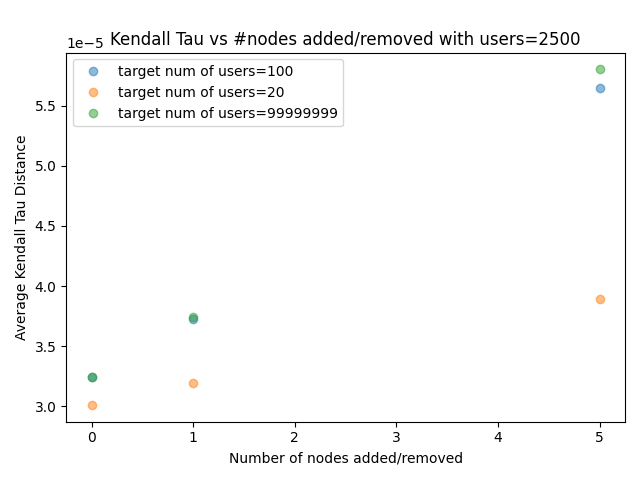
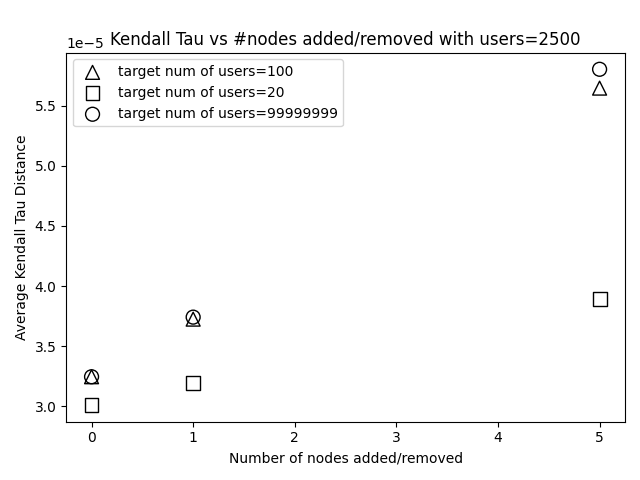
Update plots

diff --git a/waitingroom-testing/generate_plots.py b/waitingroom-testing/generate_plots.py
@@ -41,12 +41,14 @@ print(df)
 # Now we plot the kendall tau distances.
 # Use different graphs for the different total values
 
-
+markers_o = ['^', 's', 'o']
 for total in df['total'].unique():
     fig, ax = plt.subplots()    
+    markers = markers_o.copy()
     for target in df['target'].unique():
+        marker = markers.pop(0)
         data = df[(df['target'] == target) & (df['total'] == total)]
-        ax.plot(data['killed'], data['kendall_tau'], label=f'target num of users={target}', linestyle='', marker='o', alpha=0.5)
+        ax.scatter(data['killed'], data['kendall_tau'], label=f'target num of users={target}', linestyle='', marker=marker, alpha=1, s=100, edgecolors='black', facecolors='none')
     ax.set_xlabel('Number of nodes added/removed')
     ax.set_ylabel('Average Kendall Tau Distance')
     ax.legend()
